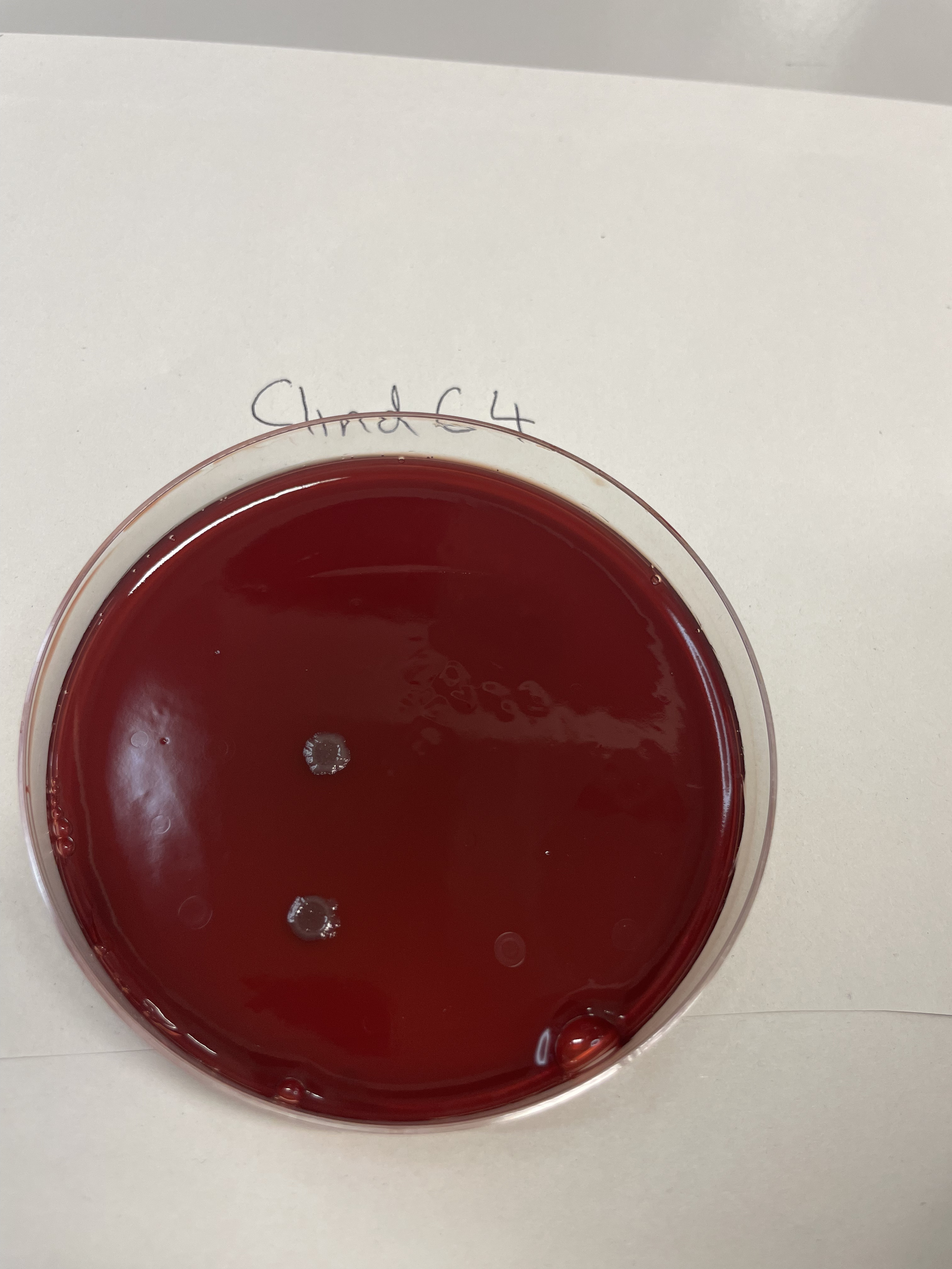
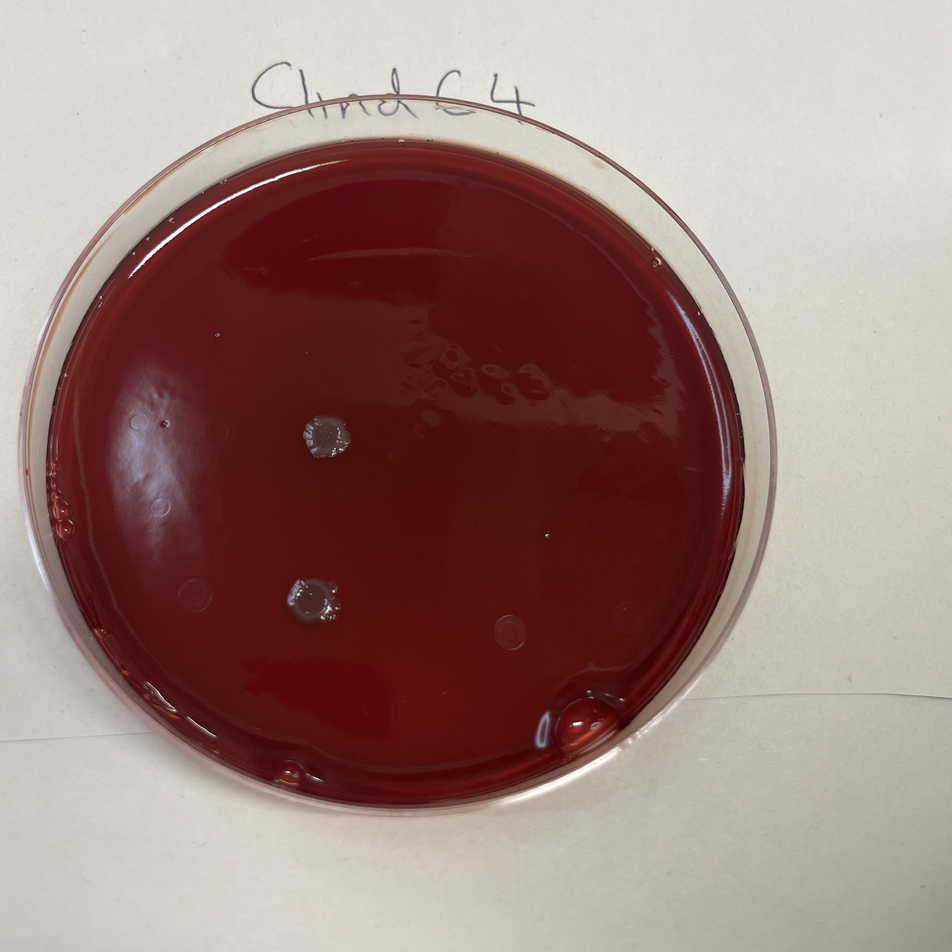
Cropping & Masking Functions Defined
Managed to crop and mask all Clind images pretty successfully using Gaussian blur, with minimal background detected. been playing around with contrasting methods to try make the inoculation points show up better in binary images, not been very successful so far.

diff --git a/DataCleaning/preprocessImage/find_CropPetriDish.py b/DataCleaning/preprocessImage/find_CropPetriDish.py
@@ -1,0 +1,54 @@
+import cv2
+import numpy as np
+
+# Read the image
+img = cv2.imread(r"C:\TeamProject\Automated-Plate-Analysis\DataCleaning\RawImages\Clindamycin\Clind0.jpg", cv2.IMREAD_GRAYSCALE)
+
+# Apply Gaussian Blur to reduce noise
+blurred = cv2.GaussianBlur(img, (7, 7), 0)
+
+# Apply adaptive histogram equalization
+clahe = cv2.createCLAHE(clipLimit=3, tileGridSize=(10, 10))
+adaptive_img = clahe.apply(blurred)
+
+# Apply thresholding to convert to binary
+ret, thresh = cv2.threshold(adaptive_img, 70, 255, 0)
+
+# Set up the blob detector parameters
+params = cv2.SimpleBlobDetector_Params()
+
+# Change thresholds
+params.minThreshold = 0
+
+# Filter by Area.
+params.filterByArea = True
+params.minArea = 300
+
+# Filter by Circularity
+params.filterByCircularity = True
+params.minCircularity = 0.5
+
+# # Filter by Convexity
+# params.filterByConvexity = True
+# params.minConvexity = 0.2
+#
+# # Filter by Inertia
+# params.filterByInertia = True
+# params.minInertiaRatio = 0.01
+
+# Create a detector with the parameters
+detector = cv2.SimpleBlobDetector_create(params)
+
+# Detect blobs
+keypoints = detector.detect(thresh)
+
+# Draw detected blobs as red circles
+img_with_keypoints = cv2.drawKeypoints(img, keypoints, np.array([]), (0, 0, 255),
+                                       cv2.DRAW_MATCHES_FLAGS_DRAW_RICH_KEYPOINTS)
+
+# Display the original and equalized images
+# cv2.imshow('Original Image', img)
+# cv2.imshow('Equalized Image', adaptive_img)
+# cv2.waitKey(0)
+cv2.imwrite('AdaptiveHist_Binary_BlobDetection_Test.jpg', img_with_keypoints)
+# cv2.destroyAllWindows()

diff --git a/DataCleaning/preprocessImage/cropCircle.py b/DataCleaning/preprocessImage/cropCircle.py
@@ -1,0 +1,44 @@
+import cv2
+import numpy as np
+
+
+def crop_image(img):
+    # Convert to grayscale
+    grey = cv2.cvtColor(img, cv2.COLOR_RGB2GRAY)
+
+    # Apply Gaussian Blur to reduce noise
+    blurred = cv2.GaussianBlur(grey, (5, 5), 0)
+
+    # Apply Hough Circle Transform to detect circles
+    circles = cv2.HoughCircles(blurred, cv2.HOUGH_GRADIENT, dp=1, minDist=20,
+                               param1=50, param2=30, minRadius=300, maxRadius=50)
+
+    # Ensure circles were detected
+    if circles is not None:
+        circles = np.round(circles[0, :]).astype("int")
+
+        # Assume only one circle is detected
+        for (x, y, r) in circles:
+            # Crop image using circle as a mask
+            mask = np.zeros_like(grey)
+            cv2.circle(mask, (x, y), r, 255, -1)
+            masked_img = cv2.bitwise_and(img, img, mask=mask)
+
+            # Get bounding box of the circle
+            x1 = max(0, x - r)
+            y1 = max(0, y - r)
+            x2 = min(img.shape[1], x + r)
+            y2 = min(img.shape[0], y + r)
+
+            # Crop the image using the bounding box
+            cropped = masked_img[y1:y2, x1:x2]
+            return cropped
+
+    # If no circle is detected, return None
+    return None
+
+
+img = cv2.imread(r"C:\TeamProject\Automated-Plate-Analysis\DataCleaning\RawImages\Clindamycin\Clind0.jpg")
+cropped = crop_image(img)
+cv2.imshow('Cropped Image', cropped)
+cv2.waitKey(0)

diff --git a/DataCleaning/preprocessImage/findCircles.py b/DataCleaning/preprocessImage/findCircles.py
@@ -4,10 +4,7 @@ from matplotlib import pyplot as plt
 
 # Read image
 img = cv2.imread(r"C:\TeamProject\Automated-Plate-Analysis\DataCleaning\met0_125.jpg",
-                 cv2.IMREAD_REDUCED_GRAYSCALE_4)
-
-# Convert BGR to RGB
-img_rgb = cv2.cvtColor(img, cv2.COLOR_GRAY2RGB)
+                 cv2.IMREAD_REDUCED_GRAYSCALE_8)
 
 # Apply thresholding to convert to binary
 ret, thresh = cv2.threshold(img, 70, 255, 0)
@@ -28,14 +25,14 @@ cv2.imwrite("cropped.png", cropped)
 contours, _ = cv2.findContours(edges, cv2.RETR_EXTERNAL, cv2.CHAIN_APPROX_SIMPLE)
 
 # Draw contours on the original image
-cv2.drawContours(img_rgb, contours, -1, (0, 255, 0), 3)
+cv2.drawContours(img, contours, -1, (0, 255, 0), 3)
 
 # Draw rectangle around original image
-tagged = cv2.rectangle(img_rgb.copy(), (x1, y1), (x2, y2), (255, 0, 0), 3, cv2.LINE_AA)
+tagged = cv2.rectangle(img.copy(), (x1, y1), (x2, y2), (255, 0, 0), 3, cv2.LINE_AA)
 cv2.imshow("tagged", tagged)
 cv2.waitKey()
 
-plt.subplot(121), plt.imshow(tagged ), plt.title('Greyscale Image with Bounding Box and Contours')
+plt.subplot(121), plt.imshow(tagged), plt.title('Greyscale Image with Bounding Box and Contours')
 plt.xticks([]), plt.yticks([])
 plt.subplot(122), plt.imshow(cropped, cmap='gray'), plt.title('Binary Cropped Image')
 plt.xticks([]), plt.yticks([])

diff --git a/DataCleaning/preprocessImage/preprocessImage.py b/DataCleaning/preprocessImage/preprocessImage.py
@@ -1,7 +1,7 @@
 import os
 import cv2
-import numpy as np
 from cropImage import crop_image
+from maskImage import mask_circle
 
 # Path to the folder containing the input images
 input_folder = r"C:\TeamProject\Automated-Plate-Analysis\DataCleaning\RawImages\Clindamycin"
@@ -17,8 +17,15 @@ for filename in os.listdir(input_folder):
 
     ROI = crop_image(img)
 
+    # Define the center and radius of the circle
+    center = (ROI.shape[1] // 2, ROI.shape[0] // 2)  # Center of the image
+    radius = min(ROI.shape[0], ROI.shape[1]) // 2  # Radius of the circle
+
+    # Crop the image as a circle
+    cropped_circle = mask_circle(ROI, center, radius)
+
     # Save the standardised image to the output folder
     output_path = os.path.join(output_folder, filename)
-    cv2.imwrite(output_path, ROI)  # Adjust 'cropped' if needed
+    cv2.imwrite(output_path, cropped_circle)  # Adjust 'cropped' if needed
 
 print("Standardization complete. Standardized images saved to", output_folder)

diff --git a/DataCleaning/preprocessImage/cropImage.py b/DataCleaning/preprocessImage/cropImage.py
@@ -9,8 +9,14 @@ def crop_image(img):
     # Convert to grayscale
     grey = cv2.cvtColor(img, cv2.COLOR_RGB2GRAY)
 
+    # Define the kernel size for Gaussian blur (should be odd)
+    kernel_size = (25, 25)  # Adjust kernel size as needed
+
+    # Apply Gaussian blur - needed to crop to exact petri dish size
+    blurred_image = cv2.GaussianBlur(grey, kernel_size, 0)
+
     # Apply thresholding to convert to binary
-    ret, thresh = cv2.threshold(grey, 55, 255, 0)
+    ret, thresh = cv2.threshold(blurred_image, 55, 255, 0)
 
     # Apply Canny edge detection
     edges = cv2.Canny(thresh, threshold1=150, threshold2=200)
@@ -21,6 +27,6 @@ def crop_image(img):
     y2, x2 = pts.max(axis=0)
 
     # Crop ROI for original image
-    cropped = img[y1:y2, x1:x2]
+    cropped = blurred_image[y1:y2, x1:x2]
 
     return cropped

diff --git a/DataCleaning/preprocessImage/maskImage.py b/DataCleaning/preprocessImage/maskImage.py
@@ -1,0 +1,16 @@
+import cv2
+import numpy as np
+
+
+def mask_circle(image, center, radius):
+    # Create a mask with zeros of same shape as image
+    mask = np.zeros_like(image)
+
+    # Create a circular white filled mask with the given center and radius
+    cv2.circle(mask, center, radius, (255, 255, 255), -1)
+
+    # Bitwise AND operation to mask the original image
+    cropped_image = cv2.bitwise_and(image, mask)
+
+    return cropped_image
+
